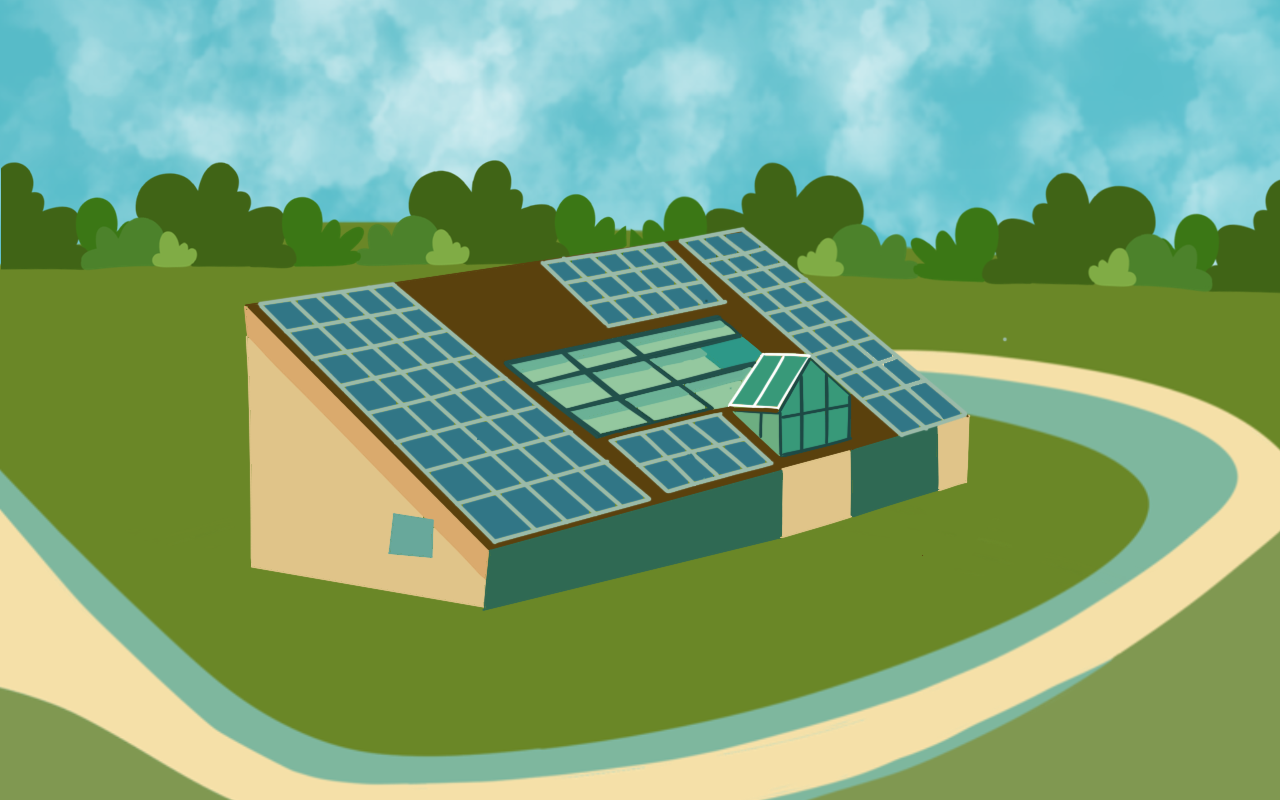
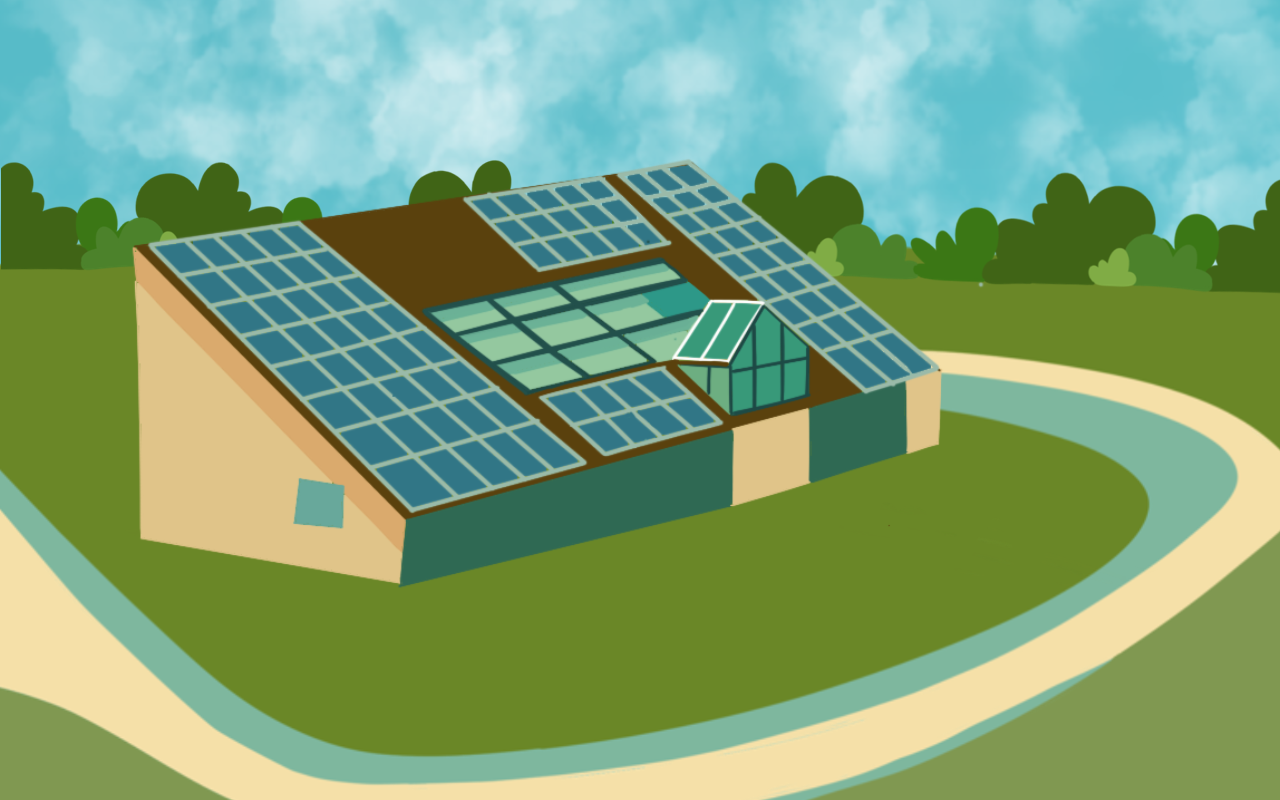
revizar los fondo de pantalla de la estacion 1, la estacion 2, la estaci

Changed region(s): [[0.0938, 0.1875, 0.7812, 0.7812]]

diff --git a/src/app/components/challenges/Station1.tsx b/src/app/components/challenges/Station1.tsx
@@ -25,7 +25,7 @@ import { ref, uploadString, getDownloadURL } from "firebase/storage";
 import Logo from "../Logo";
 import { usePrizeCart } from "@/hooks/use-prize-cart";
 
-const ResponsiveBackground = dynamic(() => import('../ResponsiveBackground'), {
+const ArtDirectedBackground = dynamic(() => import('../ArtDirectedBackground'), {
   loading: () => <div className="w-full flex-grow flex flex-col items-center justify-center p-4 relative overflow-hidden bg-background">
       <Logo className="h-24 animate-pulse" />
       <p className="text-primary/70 mt-4">Cargando Fondo...</p>
@@ -364,51 +364,53 @@ const PhotoChallenge = ({
         onTakePhoto={handleTakeNewPhotoClick}
         onUpload={handleUploadClick}
       />
-      <ChallengeContainer
-        stationId={1}
-        title="Estación Bionexus"
-        description={challenges["Fauna y Flora"].description}
-      >
-        <div className="w-full max-w-4xl mx-auto">
-          <Button variant="ghost" onClick={onBack} className="mb-4">
-            <ArrowLeft className="mr-2 h-4 w-4" />
-            Volver a los retos
-          </Button>
-
-          <div className="space-y-8">
-            <section>
-              <h3 className="text-2xl font-bold font-headline text-primary mb-4">Flora Local</h3>
-              <div className="grid grid-cols-2 md:grid-cols-4 gap-4">
-                {floraPhotos.map((photo, index) => (
-                  <PhotoSlot
-                    key={`flora-${index}`}
-                    imageUrl={photo}
-                    onAddPhoto={() => handleAddPhotoClick("flora", index)}
-                  />
-                ))}
-              </div>
-            </section>
-
-            <section>
-              <h3 className="text-2xl font-bold font-headline text-primary mb-4">Fauna Local</h3>
-              <div className="grid grid-cols-2 md:grid-cols-4 gap-4">
-                {faunaPhotos.map((photo, index) => (
-                  <PhotoSlot
-                    key={`fauna-${index}`}
-                    imageUrl={photo}
-                    onAddPhoto={() => handleAddPhotoClick("fauna", index)}
-                  />
-                ))}
-              </div>
-            </section>
-          </div>
-          <div className="mt-8 text-center">
-            <Button size="lg" onClick={onChallengeCompleteClick} disabled={!areAllPhotosUploaded}>
-              Completar Reto
+      <div className="flex-grow flex items-center justify-center p-4">
+        <ChallengeContainer
+          stationId={1}
+          title="Estación Bionexus"
+          description={challenges["Fauna y Flora"].description}
+        >
+          <div className="w-full max-w-4xl mx-auto">
+            <Button variant="ghost" onClick={onBack} className="mb-4">
+              <ArrowLeft className="mr-2 h-4 w-4" />
+              Volver a los retos
             </Button>
+
+            <div className="space-y-8">
+              <section>
+                <h3 className="text-2xl font-bold font-headline text-primary mb-4">Flora Local</h3>
+                <div className="grid grid-cols-2 md:grid-cols-4 gap-4">
+                  {floraPhotos.map((photo, index) => (
+                    <PhotoSlot
+                      key={`flora-${index}`}
+                      imageUrl={photo}
+                      onAddPhoto={() => handleAddPhotoClick("flora", index)}
+                    />
+                  ))}
+                </div>
+              </section>
+
+              <section>
+                <h3 className="text-2xl font-bold font-headline text-primary mb-4">Fauna Local</h3>
+                <div className="grid grid-cols-2 md:grid-cols-4 gap-4">
+                  {faunaPhotos.map((photo, index) => (
+                    <PhotoSlot
+                      key={`fauna-${index}`}
+                      imageUrl={photo}
+                      onAddPhoto={() => handleAddPhotoClick("fauna", index)}
+                    />
+                  ))}
+                </div>
+              </section>
+            </div>
+            <div className="mt-8 text-center">
+              <Button size="lg" onClick={onChallengeCompleteClick} disabled={!areAllPhotosUploaded}>
+                Completar Reto
+              </Button>
+            </div>
           </div>
-        </div>
-      </ChallengeContainer>
+        </ChallengeContainer>
+      </div>
     </>
   );
 };
@@ -567,38 +569,40 @@ const HabitatChallenge = ({
         onTakePhoto={handleTakeNewPhotoClick}
         onUpload={handleUploadClick}
       />
-      <ChallengeContainer
-        stationId={1}
-        title="Estación Bionexus"
-        description={challenges["Cuidado Animal"].description}
-      >
-        <div className="w-full max-w-4xl mx-auto">
-          <Button variant="ghost" onClick={onBack} className="mb-4">
-            <ArrowLeft className="mr-2 h-4 w-4" />
-            Volver a los retos
-          </Button>
-
-          <section>
-            <h3 className="text-2xl font-bold font-headline text-primary mb-4">
-              Tu Bebedero/Comedero
-            </h3>
-            <div className="grid grid-cols-2 md:grid-cols-4 gap-4">
-              {habitatPhotos.map((photo, index) => (
-                <PhotoSlot
-                  key={`habitat-${index}`}
-                  imageUrl={photo}
-                  onAddPhoto={() => handleAddPhotoClick(index)}
-                />
-              ))}
-            </div>
-          </section>
-          <div className="mt-8 text-center">
-            <Button size="lg" onClick={onChallengeCompleteClick} disabled={!areAllPhotosUploaded}>
-              Completar Reto
+      <div className="flex-grow flex items-center justify-center p-4">
+        <ChallengeContainer
+          stationId={1}
+          title="Estación Bionexus"
+          description={challenges["Cuidado Animal"].description}
+        >
+          <div className="w-full max-w-4xl mx-auto">
+            <Button variant="ghost" onClick={onBack} className="mb-4">
+              <ArrowLeft className="mr-2 h-4 w-4" />
+              Volver a los retos
             </Button>
+
+            <section>
+              <h3 className="text-2xl font-bold font-headline text-primary mb-4">
+                Tu Bebedero/Comedero
+              </h3>
+              <div className="grid grid-cols-2 md:grid-cols-4 gap-4">
+                {habitatPhotos.map((photo, index) => (
+                  <PhotoSlot
+                    key={`habitat-${index}`}
+                    imageUrl={photo}
+                    onAddPhoto={() => handleAddPhotoClick(index)}
+                  />
+                ))}
+              </div>
+            </section>
+            <div className="mt-8 text-center">
+              <Button size="lg" onClick={onChallengeCompleteClick} disabled={!areAllPhotosUploaded}>
+                Completar Reto
+              </Button>
+            </div>
           </div>
-        </div>
-      </ChallengeContainer>
+        </ChallengeContainer>
+      </div>
     </>
   );
 };
@@ -658,25 +662,17 @@ export default function Station1() {
   };
 
   if (selectedChallenge === "Fauna y Flora") {
-    return (
-      <div className="flex-grow flex items-center justify-center p-4">
-        <PhotoChallenge
+    return <PhotoChallenge
           onBack={() => setSelectedChallenge(null)}
           onStationComplete={() => handleChallengeComplete("Fauna y Flora")}
-        />
-      </div>
-    );
+        />;
   }
 
   if (selectedChallenge === "Cuidado Animal") {
-     return (
-      <div className="flex-grow flex items-center justify-center p-4">
-        <HabitatChallenge
+     return <HabitatChallenge
           onBack={() => setSelectedChallenge(null)}
           onStationComplete={() => handleChallengeComplete("Cuidado Animal")}
-        />
-      </div>
-    );
+        />;
   }
 
   const stationCompletedChallenges = completedChallenges[stationId] || {};
@@ -687,7 +683,11 @@ export default function Station1() {
 
   return (
     <>
-      <ResponsiveBackground>
+      <ArtDirectedBackground
+        desktopSrc="/backgrounds/BionexusPC.png"
+        tabletSrc="/backgrounds/BionexusTablet.png"
+        mobileSrc="/backgrounds/Bionexus1075_X_1944.png"
+      >
         <div className="relative z-10 flex flex-col items-center justify-center text-center w-full">
           <div className="bg-white/90 backdrop-blur-sm text-primary font-kalam py-3 px-10 rounded-lg shadow-lg -rotate-3 mb-8">
             <h1 className="text-4xl md:text-5xl">Bionexus</h1>
@@ -780,7 +780,7 @@ export default function Station1() {
           </div>
 
         </div>
-      </ResponsiveBackground>
+      </ArtDirectedBackground>
 
       {/* Yara Character and Dialog */}
       <div className="absolute bottom-4 right-4 sm:right-8 lg:right-12 z-20 w-full max-w-xs sm:max-w-sm md:max-w-md pointer-events-none">
